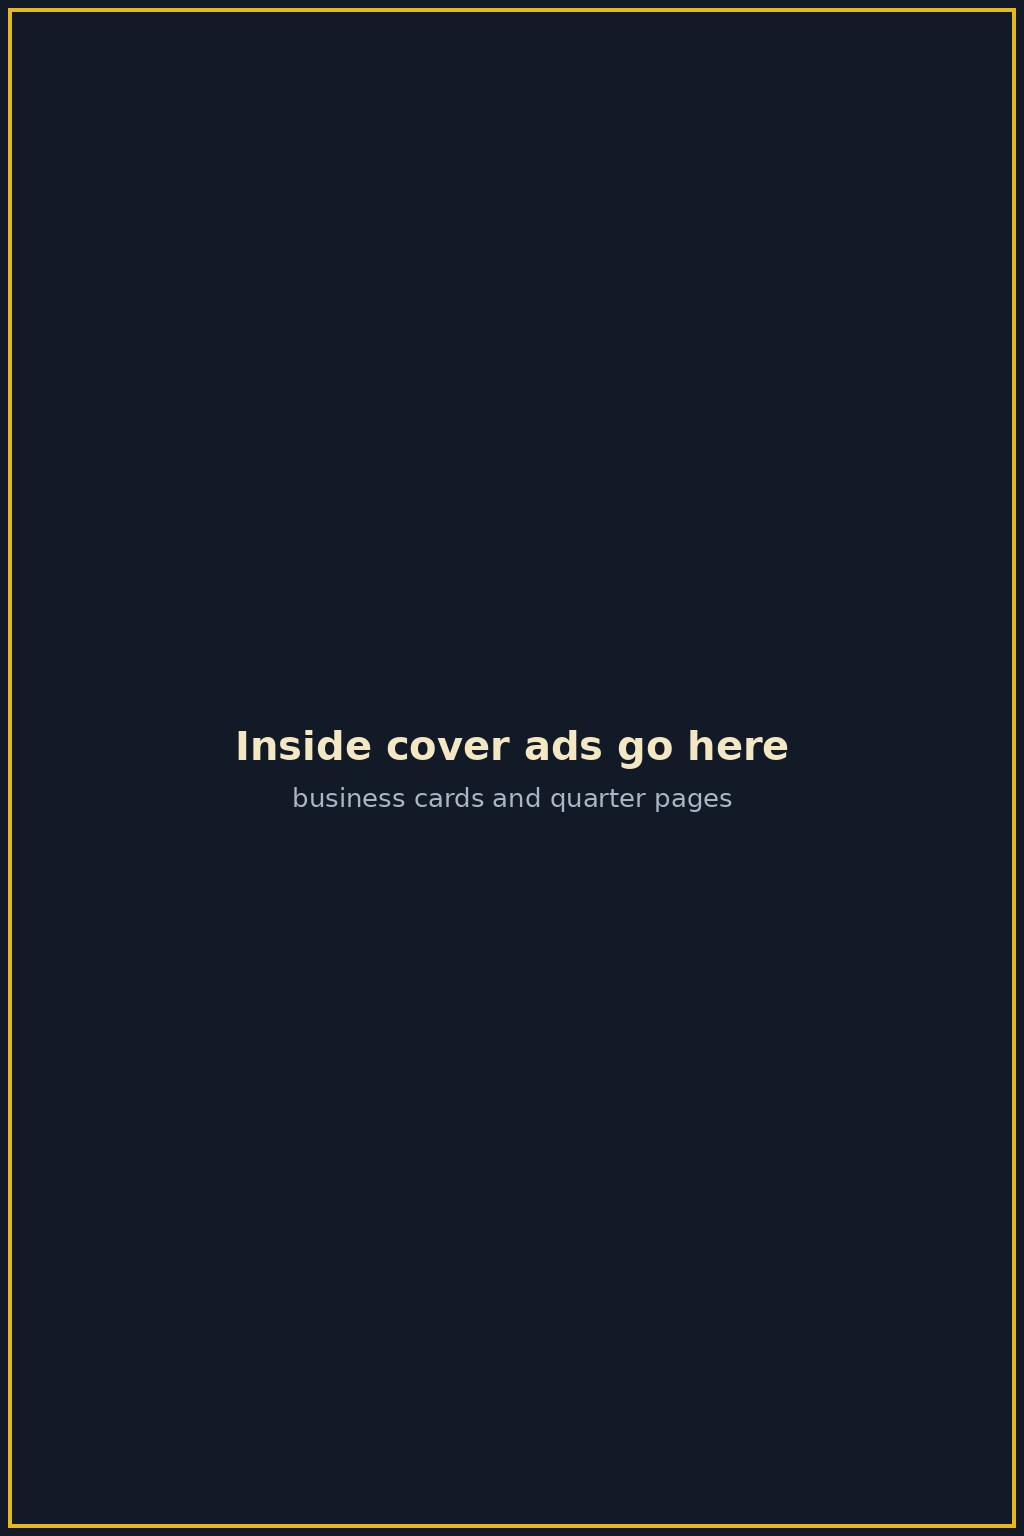
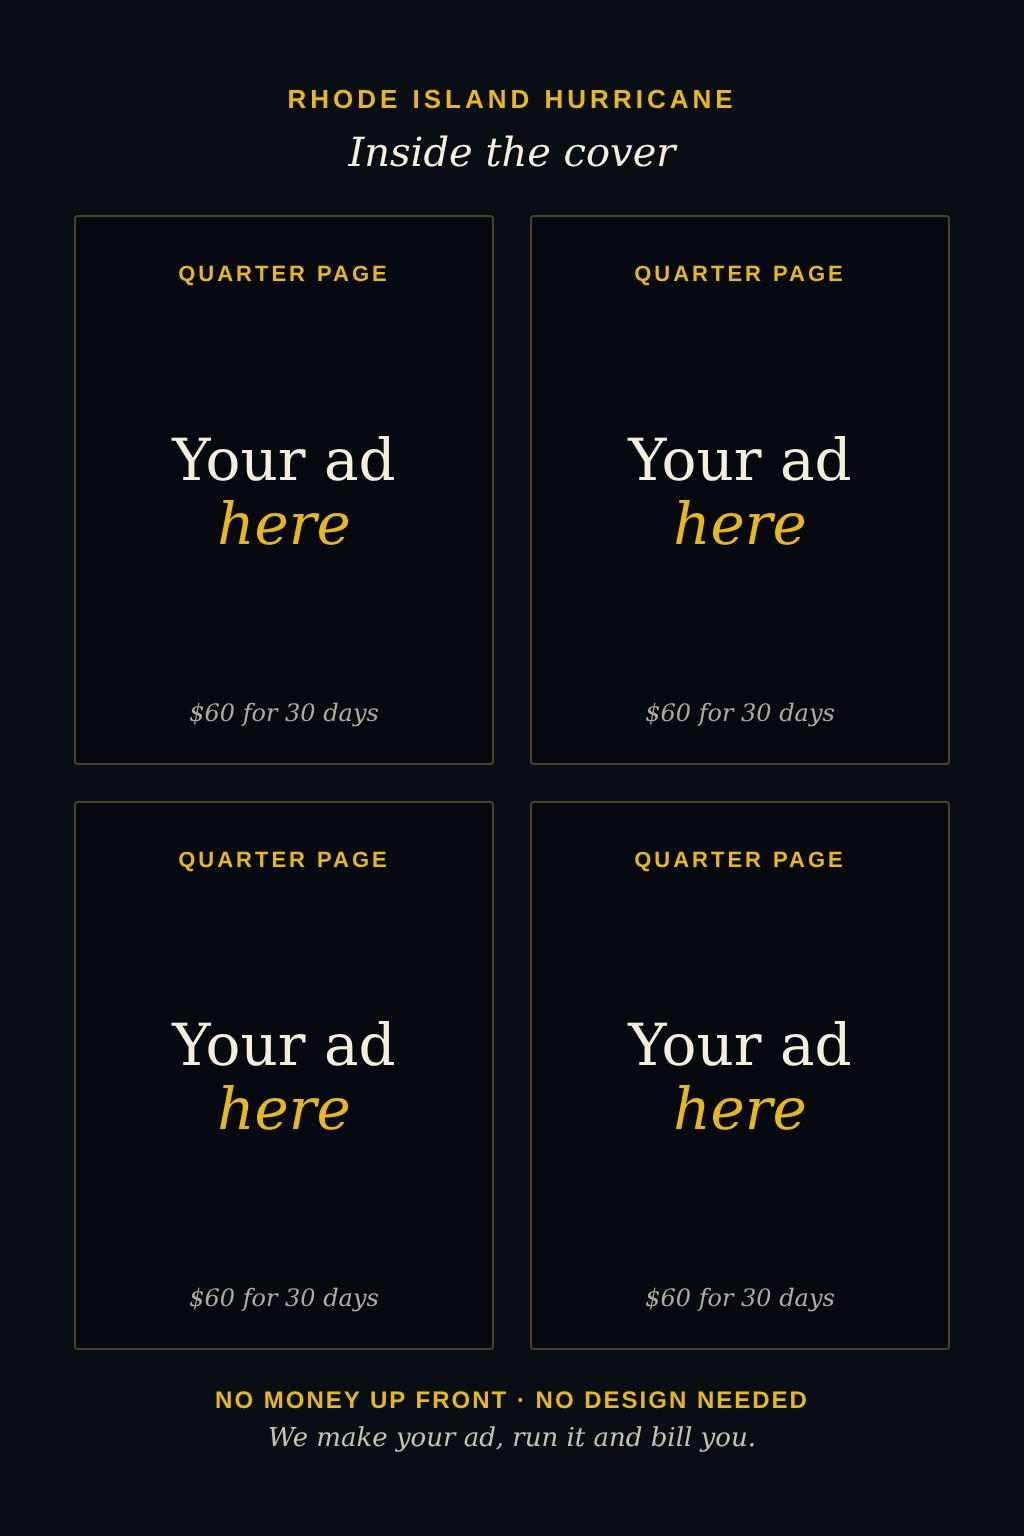
Inside cover ad page
Claude-Session: https://claude.ai/code/session_01Rvhfw57S8LJQmjjH2L4ZDg

diff --git a/index.html b/index.html
@@ -2542,7 +2542,7 @@ function openBook(){const b=document.querySelector('.cvr .cimg');if(!b||busy||do
  busy=true;if(getComputedStyle(cv).position==='static')cv.style.position='relative';
  const r=b.getBoundingClientRect(),c=cv.getBoundingClientRect();const L=r.left-c.left,T=r.top-c.top,w=Math.min(r.width*2,c.right-r.left);
  const s=document.createElement('div');s.className='bkSpread';s.style.cssText='position:absolute;left:'+L+'px;top:'+T+'px;width:'+w+'px;height:'+r.height+'px;z-index:3;display:flex;opacity:0;transition:opacity .5s ease;cursor:pointer;box-shadow:0 18px 40px rgba(0,0,0,.7);border-radius:6px;overflow:hidden';
- s.innerHTML='<img src="img/inside-cover-ad.jpg?v=3" alt="Inside front cover ad space" style="width:50%;height:100%;object-fit:cover;display:block"><img src="img/page-one-ad.jpg?v=3" alt="Page one ad space" style="width:50%;height:100%;object-fit:cover;display:block">';
+ s.innerHTML='<img src="img/inside-cover-ad.jpg?v=9" alt="Inside front cover ad space" style="width:50%;height:100%;object-fit:cover;display:block"><img src="img/page-one-ad.jpg?v=3" alt="Page one ad space" style="width:50%;height:100%;object-fit:cover;display:block">';
  s.addEventListener('click',e=>{if(e.target.closest('.frzC'))return;e.preventDefault();e.stopPropagation();if(e.target.closest('.frzX')){frozen=false;unbar();close();return}if(e.target.closest('.frzP')){frozen=!frozen;bar(s);return}if(e.target.closest('.frzA')||frozen){frozen=false;unbar();close();setTimeout(()=>{try{go('advertise')}catch(_){}},50);return}frozen=true;bar(s)});
  cv.appendChild(s);bar(s);b.style.position='relative';b.style.zIndex='8';b.style.transformOrigin='0 50%';
  requestAnimationFrame(()=>{s.style.opacity='1';b.style.transition='transform 1.1s cubic-bezier(.5,.05,.3,1),opacity .3s ease .8s';b.style.transform='perspective(1600px) rotateY(-110deg)';b.style.opacity='0'});
